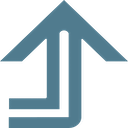
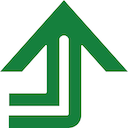
changed color and theming to match main website

diff --git a/popup.html b/popup.html
@@ -64,7 +64,7 @@
       }
       h1,
       h2 {
-        color: #4f46e5;
+        color: #15803d;
         margin-bottom: 20px;
       }
       small {
@@ -95,7 +95,7 @@
         border-color: #4a90e2;
       }
       button {
-        background-color: #4f46e5;
+        background-color: #15803d;
         color: white;
         border: none;
         border-radius: 18px;
@@ -106,7 +106,7 @@
         margin: 5px 0;
       }
       button:hover {
-        background-color: #7973f2;
+        background-color: #16a34a;
         transform: translateY(-2px);
       }
       .hidden {
@@ -154,7 +154,7 @@
         background-size: 10px;
       }
       select:focus {
-        border-color: #4a90e2;
+        border-color: #15803d;
         outline: none;
       }
       label {
